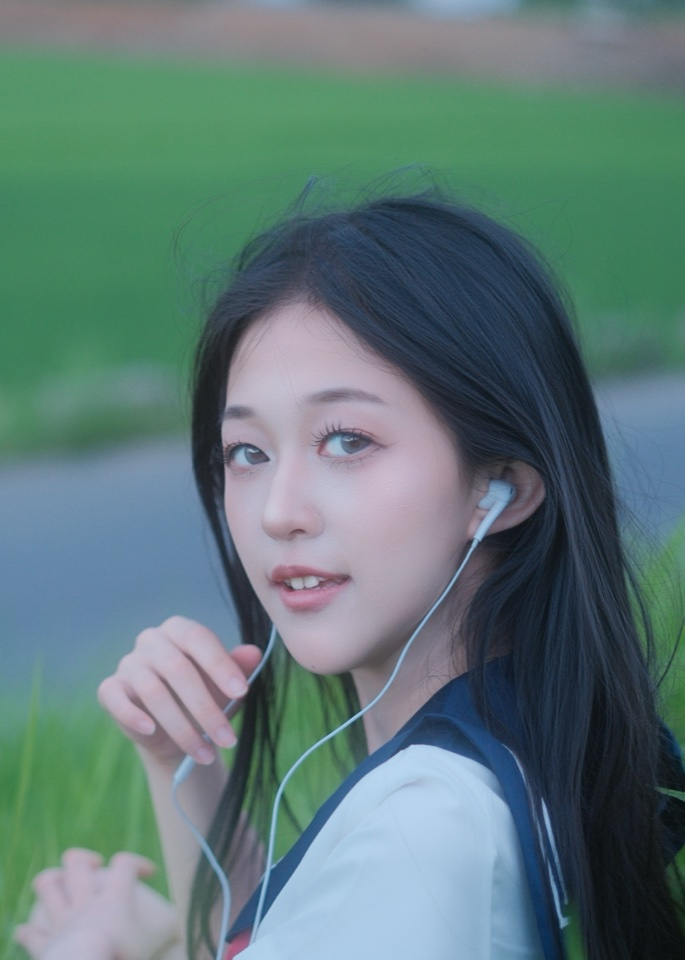
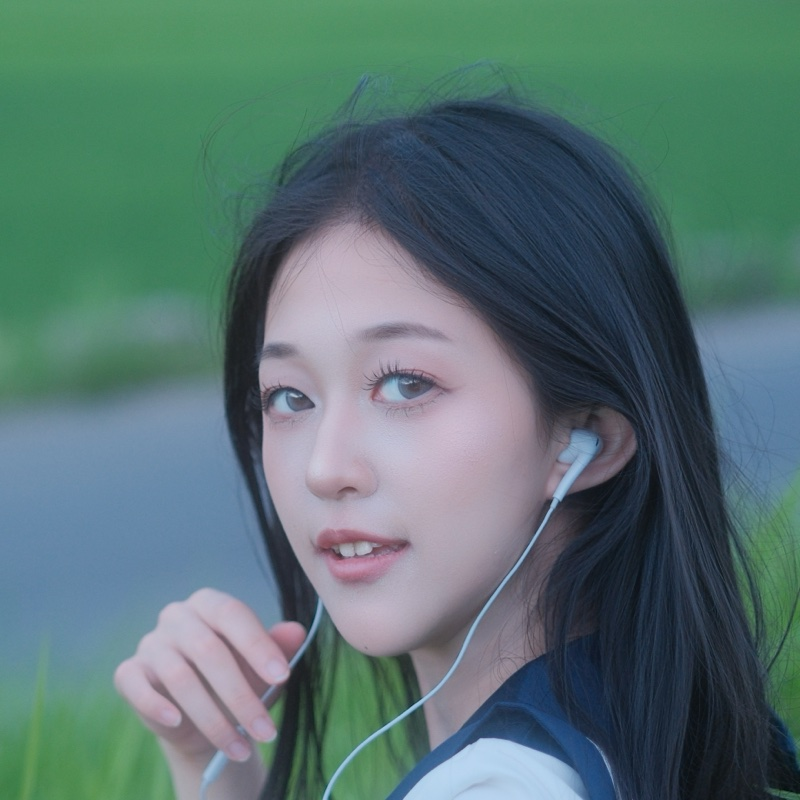
Enlarge homepage portrait in a square frame

diff --git a/assets/css/liwei.scss b/assets/css/liwei.scss
@@ -81,12 +81,12 @@ header.lw-blog-header a.lw-back-home:hover {
 }
 
 .profile-img {
-  width: 126px;
-  height: auto;
+  width: 180px;
+  height: 180px;
   border-radius: 8px;
   margin: 0 auto 1rem;
   background: var(--light-gray);
-  object-fit: contain;
+  object-fit: cover;
   border: 1px solid var(--border-color);
 }
 
@@ -456,8 +456,8 @@ nav.lw-nav a.active {
   }
 
   .profile-img {
-    width: 105px;
-    height: auto;
+    width: 150px;
+    height: 150px;
   }
 
   .header-content h2 {

diff --git a/_includes/liwei-site-header.html b/_includes/liwei-site-header.html
@@ -18,6 +18,8 @@
       src="{{ '/images/profile.jpg' | relative_url }}?v={{ site.github.build_revision | default: site.time | date: '%s' }}"
       alt="{{ name_en }} profile picture"
       class="profile-img"
+      width="800"
+      height="800"
       loading="eager"
       decoding="async"
     >
